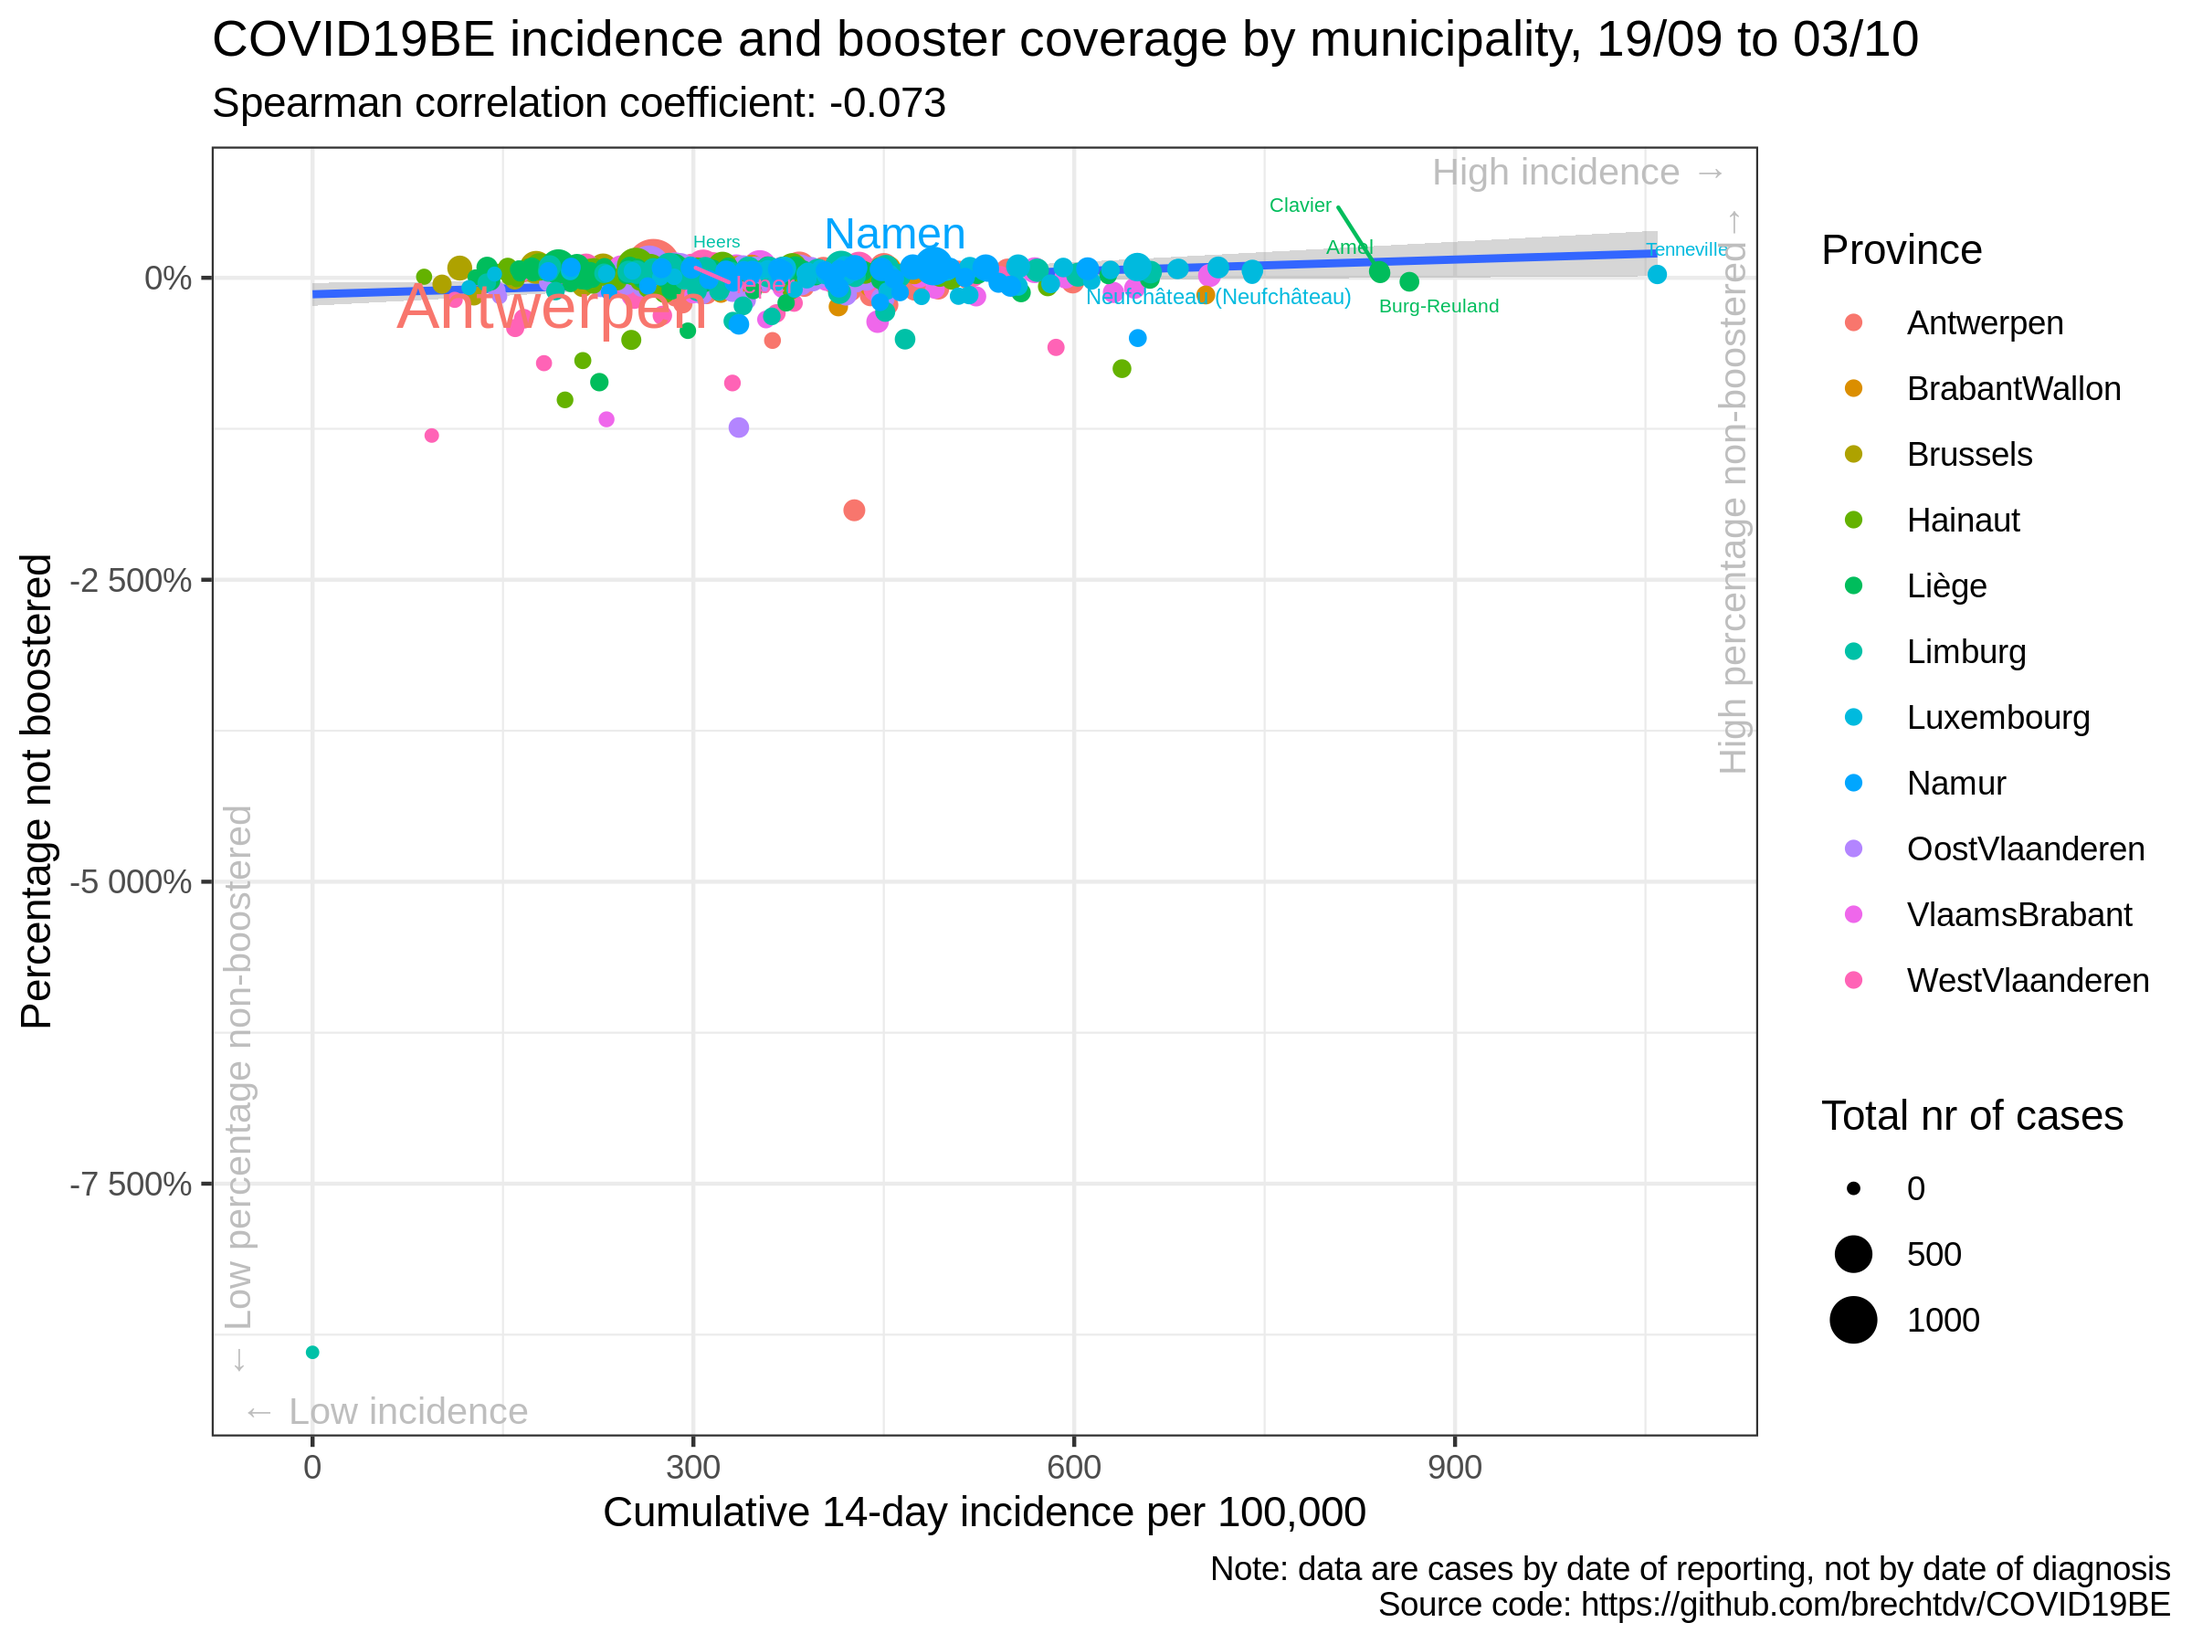
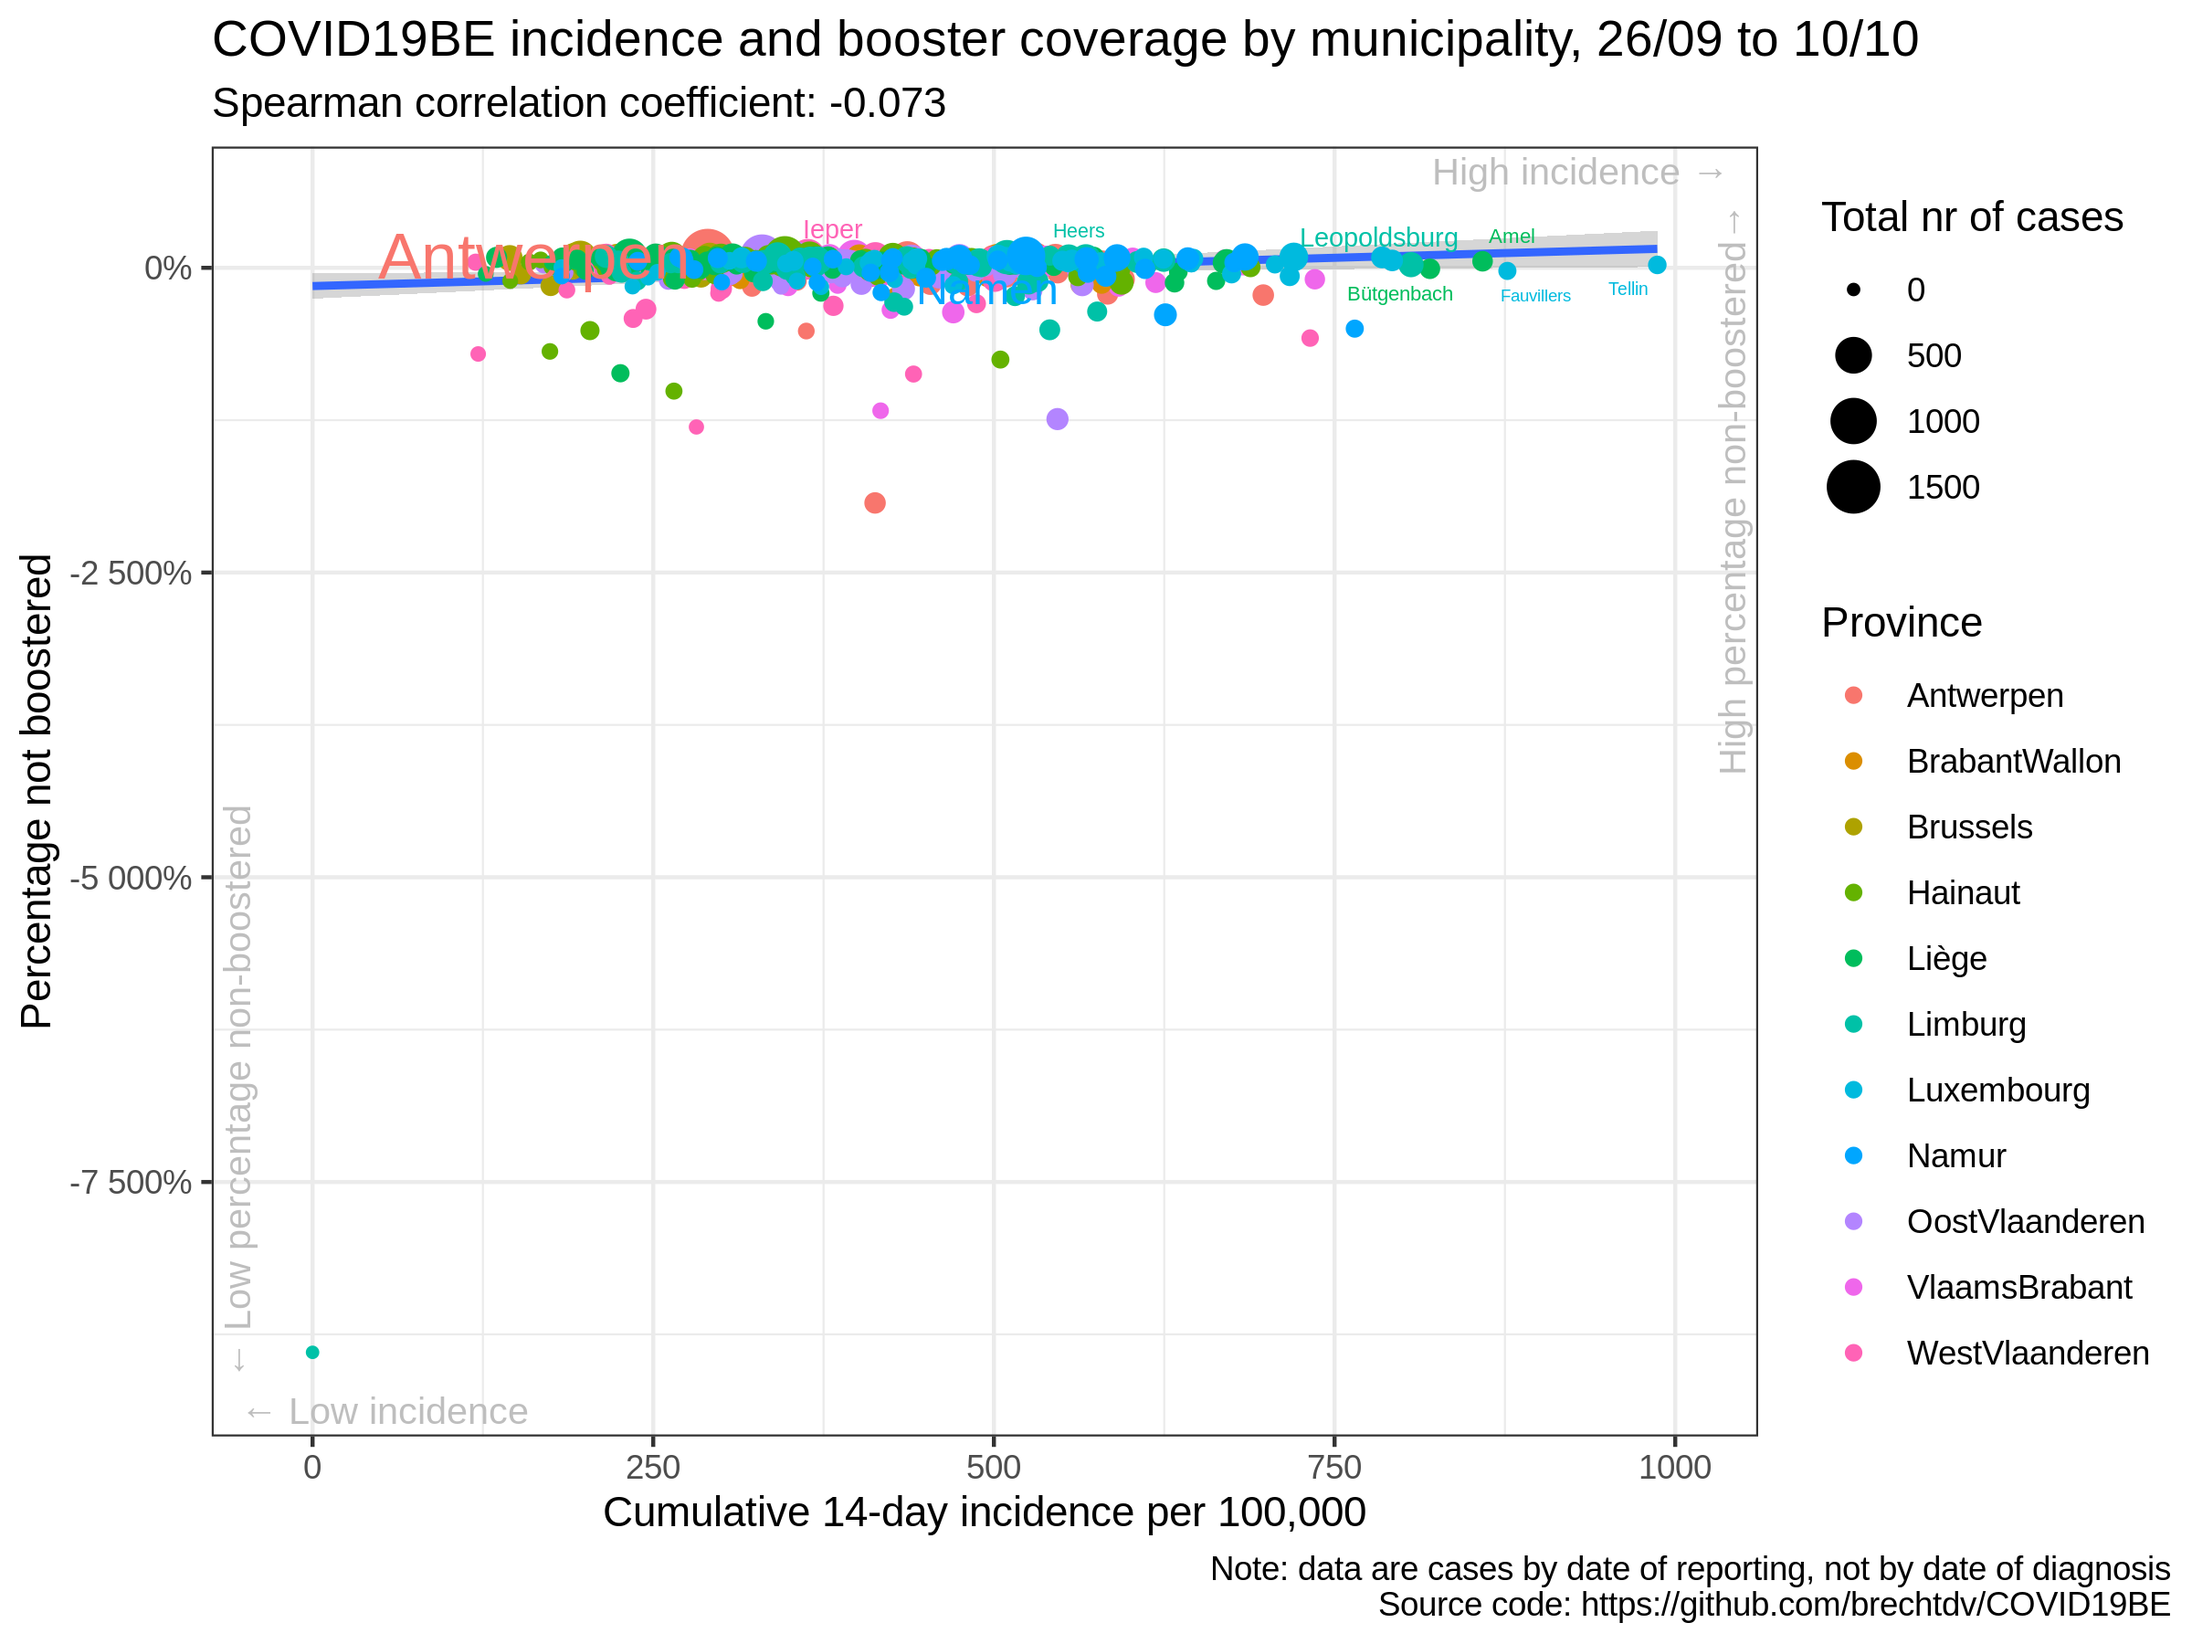
update situation

diff --git a/vaccination/README.md b/vaccination/README.md
@@ -17,35 +17,35 @@
 
 |                | estimate.rho | p.value |
 | :------------- | -----------: | ------: |
-| Antwerpen      |      \-0.151 |   0.215 |
-| BrabantWallon  |      \-0.219 |   0.272 |
-| Brussels       |        0.011 |   0.968 |
-| Hainaut        |      \-0.054 |   0.657 |
-| Liège          |      \-0.179 |   0.104 |
-| Limburg        |      \-0.059 |   0.708 |
-| Luxembourg     |        0.239 |   0.118 |
-| Namur          |        0.003 |   0.988 |
-| OostVlaanderen |        0.009 |   0.949 |
-| VlaamsBrabant  |      \-0.141 |   0.261 |
-| WestVlaanderen |        0.103 |   0.418 |
-| Belgium        |      \-0.062 |   0.133 |
+| Antwerpen      |      \-0.051 |   0.677 |
+| BrabantWallon  |      \-0.018 |   0.931 |
+| Brussels       |      \-0.049 |   0.843 |
+| Hainaut        |      \-0.004 |   0.973 |
+| Liège          |      \-0.115 |   0.296 |
+| Limburg        |      \-0.017 |   0.913 |
+| Luxembourg     |        0.230 |   0.133 |
+| Namur          |      \-0.013 |   0.940 |
+| OostVlaanderen |      \-0.203 |   0.119 |
+| VlaamsBrabant  |      \-0.186 |   0.139 |
+| WestVlaanderen |        0.074 |   0.559 |
+| Belgium        |      \-0.066 |   0.112 |
 
 ### Correlation cumulative incidence vs booster rate
 
 |                | estimate.rho | p.value |
 | :------------- | -----------: | ------: |
-| Antwerpen      |      \-0.145 |   0.234 |
-| BrabantWallon  |      \-0.226 |   0.255 |
-| Brussels       |      \-0.044 |   0.860 |
-| Hainaut        |      \-0.076 |   0.533 |
-| Liège          |      \-0.173 |   0.116 |
-| Limburg        |      \-0.051 |   0.746 |
-| Luxembourg     |        0.241 |   0.116 |
-| Namur          |        0.000 |   0.998 |
-| OostVlaanderen |        0.012 |   0.930 |
-| VlaamsBrabant  |      \-0.146 |   0.246 |
-| WestVlaanderen |        0.105 |   0.408 |
-| Belgium        |      \-0.073 |   0.079 |
+| Antwerpen      |      \-0.052 |   0.669 |
+| BrabantWallon  |      \-0.020 |   0.921 |
+| Brussels       |      \-0.107 |   0.662 |
+| Hainaut        |      \-0.019 |   0.874 |
+| Liège          |      \-0.115 |   0.299 |
+| Limburg        |      \-0.011 |   0.946 |
+| Luxembourg     |        0.231 |   0.130 |
+| Namur          |      \-0.009 |   0.957 |
+| OostVlaanderen |      \-0.201 |   0.123 |
+| VlaamsBrabant  |      \-0.183 |   0.144 |
+| WestVlaanderen |        0.077 |   0.544 |
+| Belgium        |      \-0.073 |   0.080 |
 
 ### Data source
 
